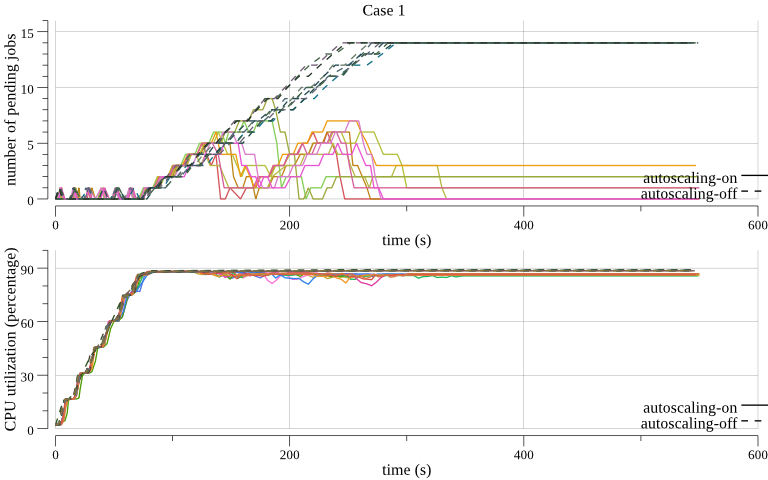
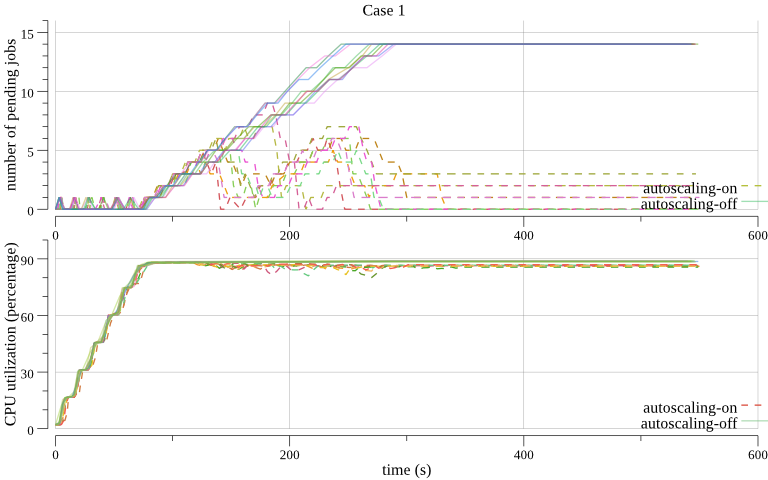
Update Plots

diff --git a/doc/autoscale/experiment/result/plot/plot.go b/doc/autoscale/experiment/result/plot/plot.go
@@ -227,6 +227,7 @@ func doPlot(p *plot.Plot, caseOn, caseOff []jobCase, pre present) {
 		}
 		l.LineStyle.Width = vg.Points(1)
 		l.LineStyle.Color = colorful.HappyColor()
+		l.LineStyle.Dashes = []vg.Length{vg.Points(5), vg.Points(5)}
 
 		p.Add(l)
 
@@ -236,7 +237,8 @@ func doPlot(p *plot.Plot, caseOn, caseOff []jobCase, pre present) {
 				panic(err)
 			}
 			legendLine.LineStyle.Width = vg.Points(1)
-			legendLine.LineStyle.Color = color.Black
+			legendLine.LineStyle.Color = colorful.HappyColor()
+			legendLine.LineStyle.Dashes = []vg.Length{vg.Points(5), vg.Points(5)}
 			p.Legend.Add(fmt.Sprintf("autoscaling-on"), legendLine)
 		}
 		if err != nil {
@@ -251,8 +253,7 @@ func doPlot(p *plot.Plot, caseOn, caseOff []jobCase, pre present) {
 			panic(err)
 		}
 		l.LineStyle.Width = vg.Points(1)
-		l.LineStyle.Color = colorful.WarmColor()
-		l.LineStyle.Dashes = []vg.Length{vg.Points(5), vg.Points(5)}
+		l.LineStyle.Color = getOffColor()
 
 		p.Add(l)
 
@@ -262,8 +263,7 @@ func doPlot(p *plot.Plot, caseOn, caseOff []jobCase, pre present) {
 				panic(err)
 			}
 			legendLine.LineStyle.Width = vg.Points(1)
-			legendLine.LineStyle.Color = color.Black
-			legendLine.LineStyle.Dashes = []vg.Length{vg.Points(5), vg.Points(5)}
+			legendLine.LineStyle.Color = getOffColor()
 			p.Legend.Add(fmt.Sprintf("autoscaling-off"), legendLine)
 		}
 
@@ -271,6 +271,12 @@ func doPlot(p *plot.Plot, caseOn, caseOff []jobCase, pre present) {
 			panic(err)
 		}
 	}
+}
+
+func getOffColor() color.Color {
+	c := colorful.HappyColor()
+	r, g, b := c.RGB255()
+	return color.NRGBA{r, g, b, 0x7f}
 }
 
 var (
@@ -308,7 +314,6 @@ func main() {
 		panic(err)
 	}
 	p.Title.Text = "Case 1"
-	p.X.Label.Text = "time (s)"
 	p.X.Min = 0
 	p.X.Max = 600
 	p.Y.Label.Text = "number of pending jobs"
@@ -323,7 +328,6 @@ func main() {
 		panic(err)
 	}
 
-	p.X.Label.Text = "time (s)"
 	p.X.Min = 0
 	p.X.Max = 600
 	p.Y.Label.Text = "CPU utilization (percentage)"
@@ -332,6 +336,7 @@ func main() {
 	p.Add(plotter.NewGrid())
 	doPlot(p, cases[case1On], cases[case1Off], clusterUtil)
 	plots[1] = []*plot.Plot{p}
+	p.X.Label.Text = "time (s)"
 
 	img := vgimg.New(8*vg.Inch, 8*2/3*vg.Inch)
 	dc := draw.New(img)
@@ -361,7 +366,6 @@ func main() {
 		panic(err)
 	}
 	p.Title.Text = "Case 2"
-	p.X.Label.Text = "time (s)"
 	p.X.Min = 0
 	p.X.Max = 600
 	p.Y.Label.Text = "number of Nginx pods"
@@ -375,7 +379,7 @@ func main() {
 	if err != nil {
 		panic(err)
 	}
-	p.X.Label.Text = "time (s)"
+
 	p.X.Min = 0
 	p.X.Max = 600
 	p.Y.Label.Text = "number of trainer pods"
